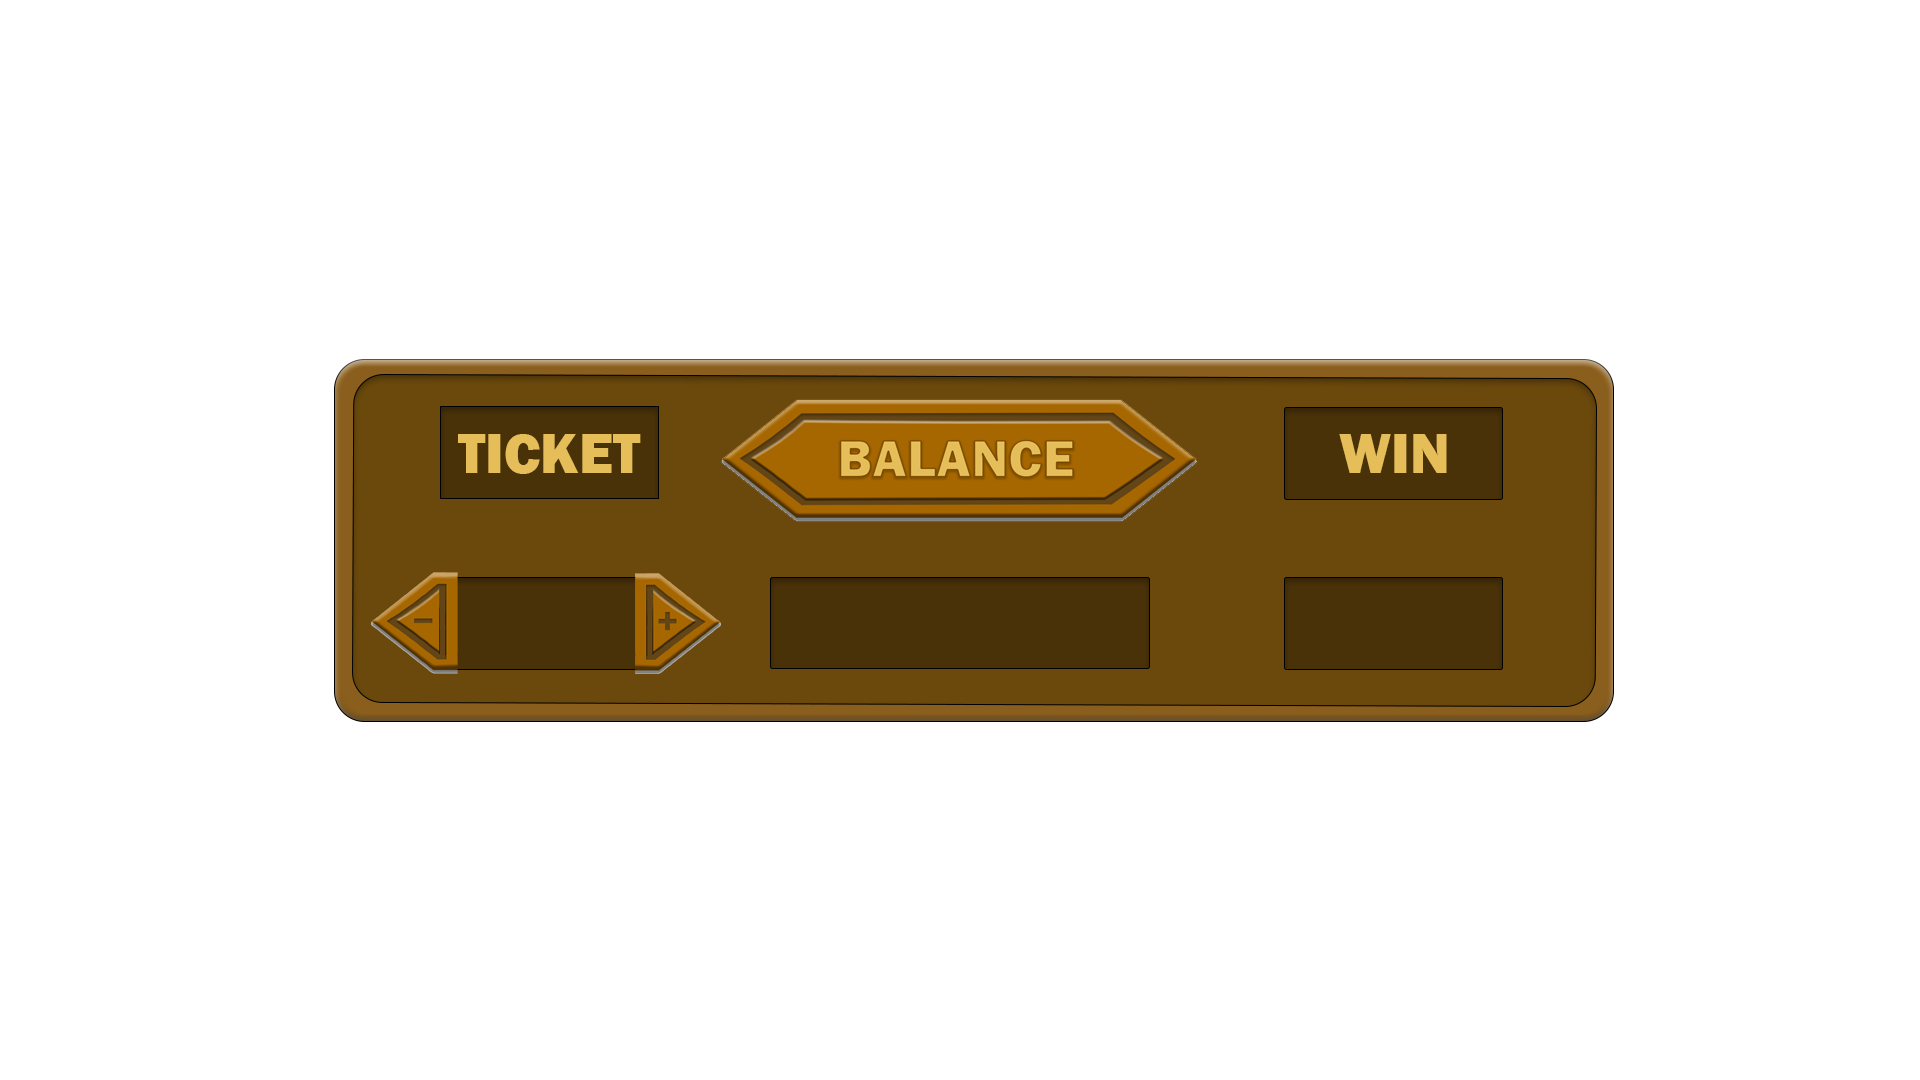
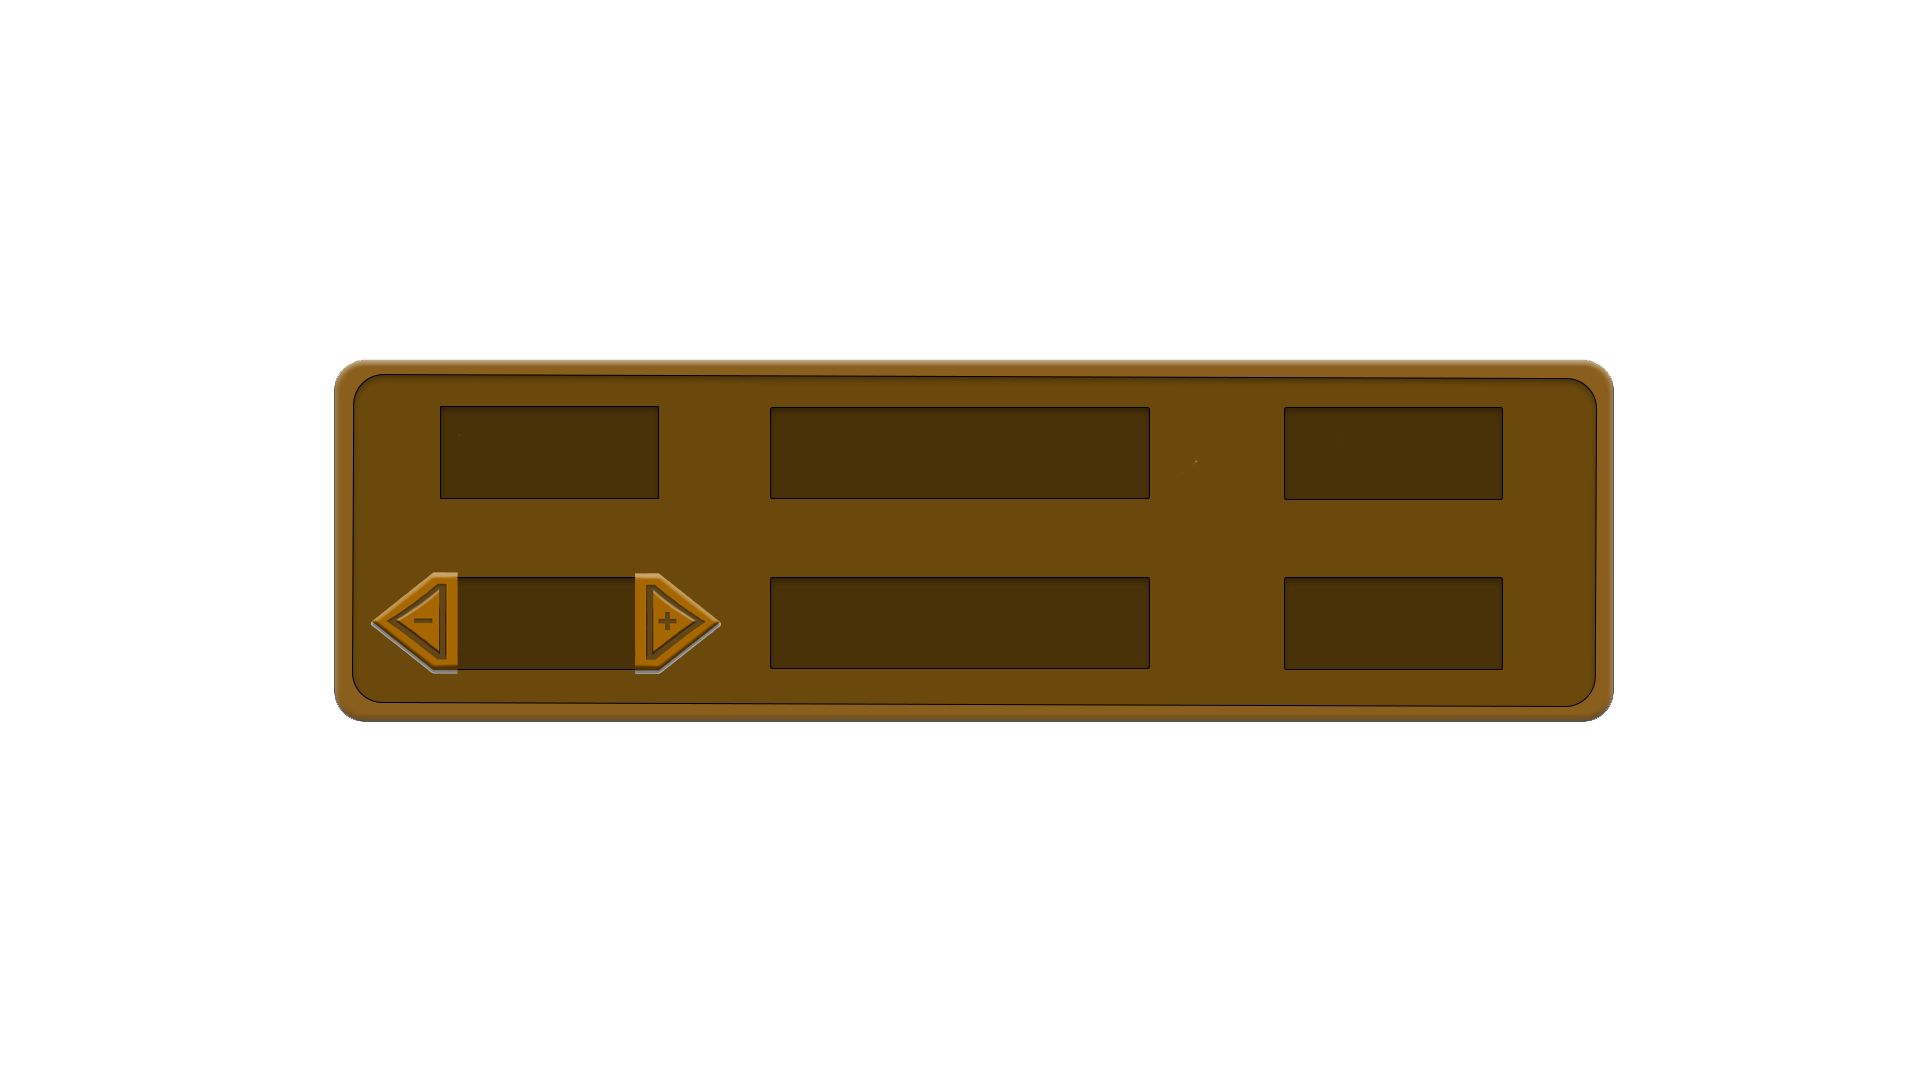
Prototype - Made the info-meter more styled up with dynamic text labels and gsap effects.

Changed region(s): [[0.375, 0.3667, 0.625, 0.4889], [0.2188, 0.3972, 0.3438, 0.4583], [0.6875, 0.3972, 0.75, 0.4583]]

diff --git a/src/ui.js b/src/ui.js
@@ -85,7 +85,8 @@ export class UI {
     this.balanceText = new Text("", {
       fill: 0xffff00,
       fontSize: 42,
-      fontWeight: 'bold' });
+      fontWeight: 'bold'
+    });
     this.balanceText.anchor.set(0.5);
     this.infoMtr.addChild(this.balanceText);
     this.balanceText.x = this.priceText.x + 410;
@@ -101,6 +102,48 @@ export class UI {
     this.infoMtr.addChild(this.ticketWinText);
     this.ticketWinText.x = this.balanceText.x + 435;
     this.ticketWinText.y = this.balanceText.y;
+
+    // Text above the above.
+    this.priceLabel = new Text("TICKET", {
+      fill: 0xffff00,
+      fontSize: 50,
+      fontWeight: 'bold'
+    });
+    this.priceLabel.anchor.set(0.5);
+    this.priceLabel.x = this.priceText.x;
+    this.priceLabel.y = this.priceText.y - 170;
+    this.infoMtr.addChild(this.priceLabel);
+
+    this.balanceLabel = new Text("BALANCE", {
+      fill: 0xffff00,
+      fontSize: 50,
+      fontWeight: 'bold'
+    });
+    this.balanceLabel.anchor.set(0.5);
+    this.balanceLabel.x = this.balanceText.x;
+    this.balanceLabel.y = this.balanceText.y - 170;
+    this.infoMtr.addChild(this.balanceLabel);
+
+    this.winLabel = new Text("WIN", {
+      fill: 0xffff00,
+      fontSize: 50,
+      fontWeight: 'bold'
+    });
+    this.winLabel.anchor.set(0.5);
+    this.winLabel.x = this.ticketWinText.x;
+    this.winLabel.y = this.ticketWinText.y - 170;
+    this.infoMtr.addChild(this.winLabel);
+
+    // Adds an alpha glow to the labels.
+    [this.priceLabel, this.balanceLabel, this.winLabel].forEach(label => {
+      gsap.to(label, {
+        alpha: 0.5,
+        duration: 1,
+        yoyo: true,
+        repeat: -1,
+        ease: "sine.inOut"
+      });
+    });
 
     this.infoMinus.on('pointerdown', () => {
       const index = state.gameData.ticketPrices.indexOf(state.ticketPrice);
@@ -154,6 +197,7 @@ export class UI {
 
   updatePriceDisplay() {
     this.priceText.text = `£${(state.ticketPrice / 100).toFixed(2)}`;
+    this.animateValue(this.priceText);
   }
 
   updateBalanceDisplay(change = 0) {
@@ -161,10 +205,20 @@ export class UI {
 
     this.balanceText.style.fill =
       change > 0 ? 0x00ff00 : change < 0 ? 0xff0000 : 0xffff00;
+
+    this.animateValue(this.balanceText);
   }
 
   updateTicketWinDisplay() {
     this.ticketWinText.text = `£${(state.winThisTicket / 100).toFixed(2)}`;
+    this.animateValue(this.ticketWinText);
+  }
+
+  // Animates the info-meter values subtly.
+  animateValue(textObj){
+    gsap.fromTo(textObj.scale,
+      { x: 1, y: 1 },
+      { x: 1.15, y: 1.15, duration: 0.2, yoyo: true, repeat: 1, ease: "power1.out"});
   }
 
   showOverlay(message, colour = 0xffff00) {
@@ -192,9 +246,9 @@ export class UI {
       duration: 0.25,
     });
 
-    if (colour === 0x00ff00){
+    if (colour === 0x00ff00) {
       // A win will sparkle outwards.
-      for (let i = 0; i < 40; i++){
+      for (let i = 0; i < 40; i++) {
         const size = 2 + Math.random() * 4;
         const sparkle = new Graphics().circle(0, 0, size).fill(0xffff66);
         sparkle.x = this.overlayText.x;
@@ -214,7 +268,7 @@ export class UI {
         });
       }
       // Glitter rain effect.
-      for (let i = 0; i < 50; i++){
+      for (let i = 0; i < 50; i++) {
         const size = 2 + Math.random() * 3;
         const glitter = new Graphics().circle(0, 0, size).fill(0xffffff);
         glitter.x = Math.random() * this.app.screen.width;
